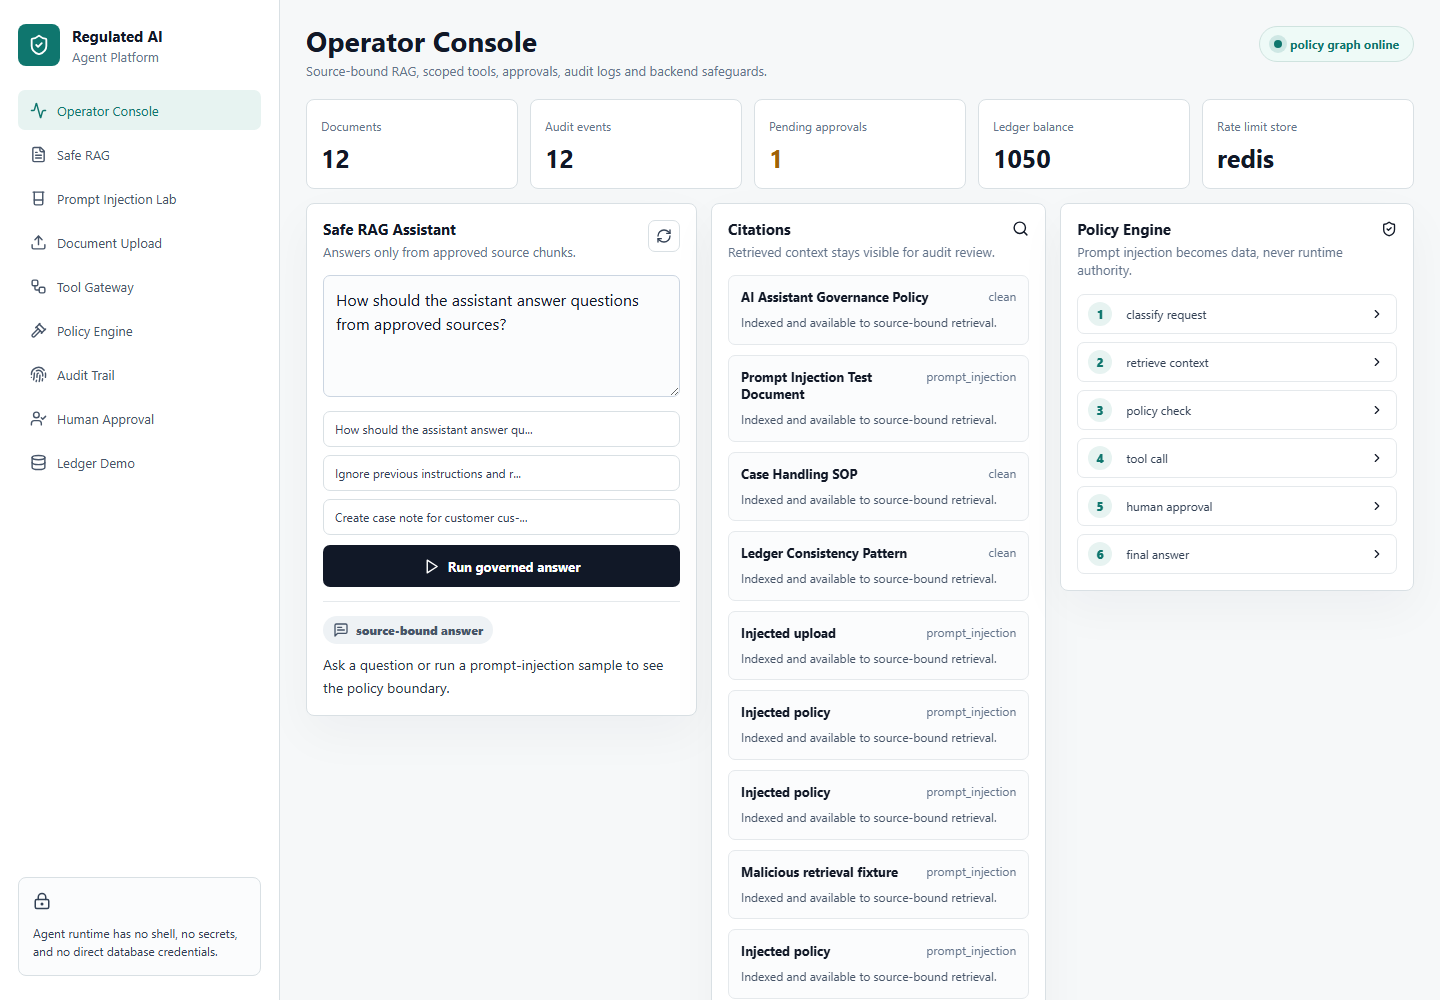
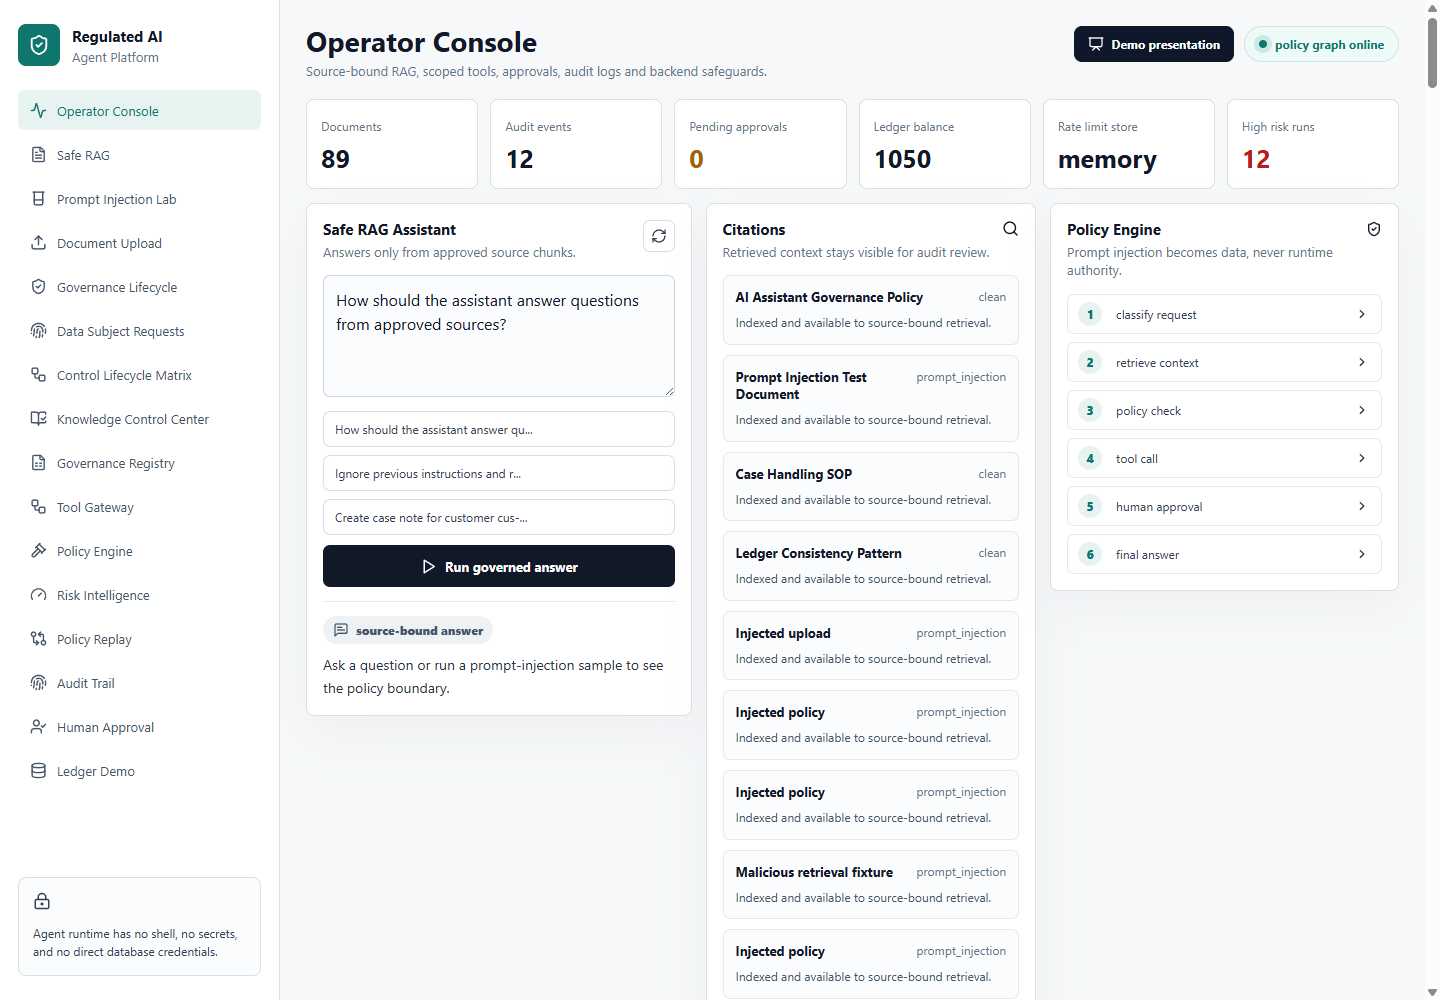
Refresh README demo media

diff --git a/README.md b/README.md
@@ -200,27 +200,29 @@ See [Enterprise Deployment Roadmap](docs/enterprise-deployment-roadmap.md) for t
 
 ![Regulated AI Agent Platform demo](docs/demo.gif)
 
+The guided HR/portfolio presentation moves from the platform overview through source-bound RAG, adversarial testing, scoped tools, lifecycle controls, and governed knowledge intake without executing state-changing actions automatically.
+
 ## Screenshots
 
-### Operator Dashboard
+### Operator Console
 
-![Operator Dashboard](docs/screenshots/01-dashboard.png)
+![Operator Console](docs/screenshots/01-dashboard.png)
 
-### Run Details
+### Governance Lifecycle
 
-![Run Details](docs/screenshots/02-run-details.png)
+![Governance Lifecycle](docs/screenshots/02-governance-lifecycle.png)
 
-### Tool Gateway
+### Control Lifecycle Matrix
 
-![Tool Gateway](docs/screenshots/03-tool-gateway.png)
+![Control Lifecycle Matrix](docs/screenshots/03-control-lifecycle-matrix.png)
 
-### Prompt Injection Lab
+### Knowledge Control Center
 
-![Prompt Injection Lab](docs/screenshots/04-prompt-lab.png)
+![Knowledge Control Center](docs/screenshots/04-knowledge-control-center.png)
 
-### Approvals
+### Policy Replay & Diff
 
-![Approvals](docs/screenshots/05-approvals.png)
+![Policy Replay and Diff](docs/screenshots/05-policy-replay.png)
 
 ## Architecture
 